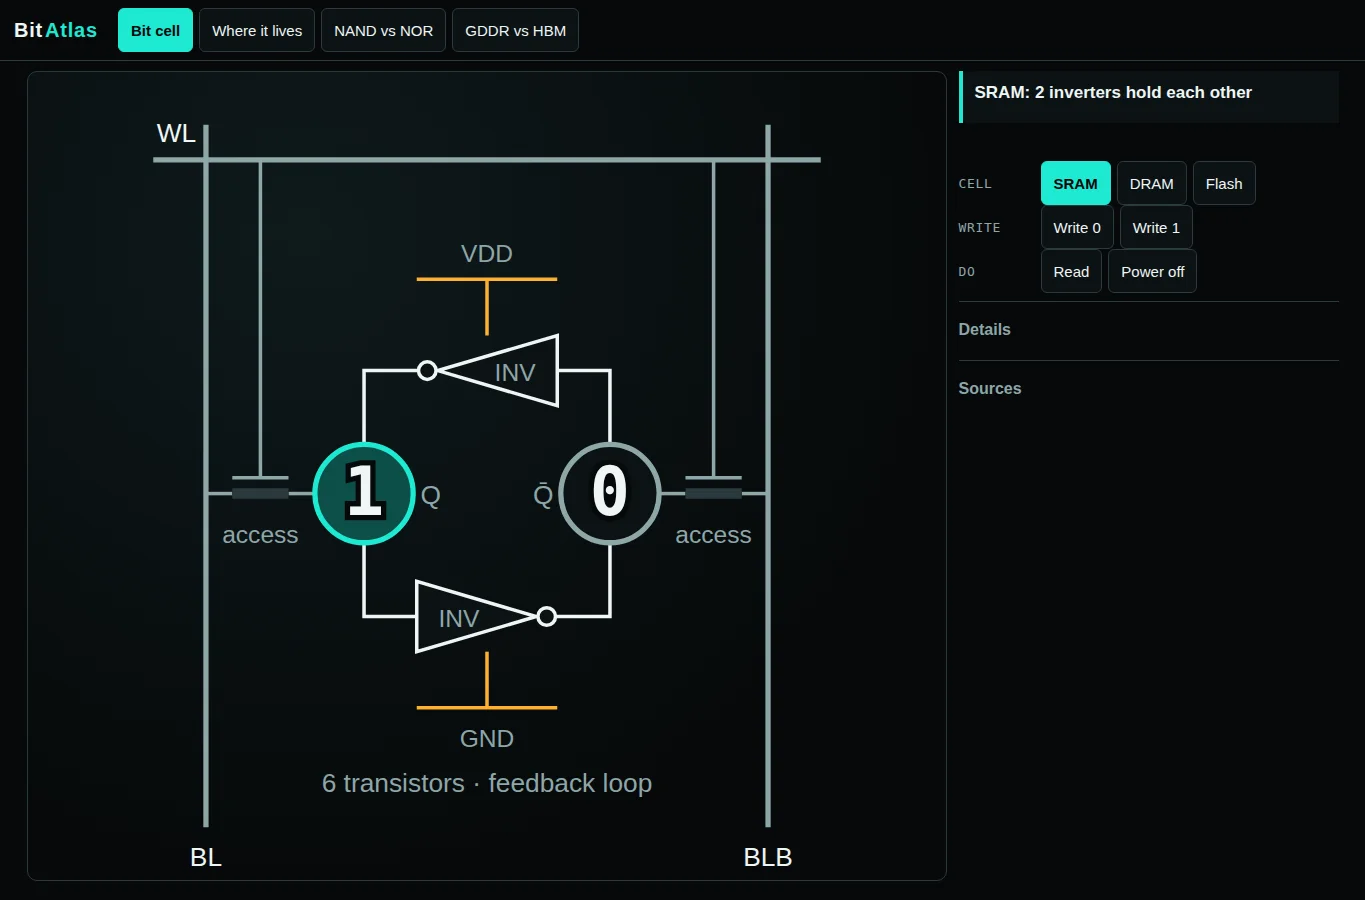
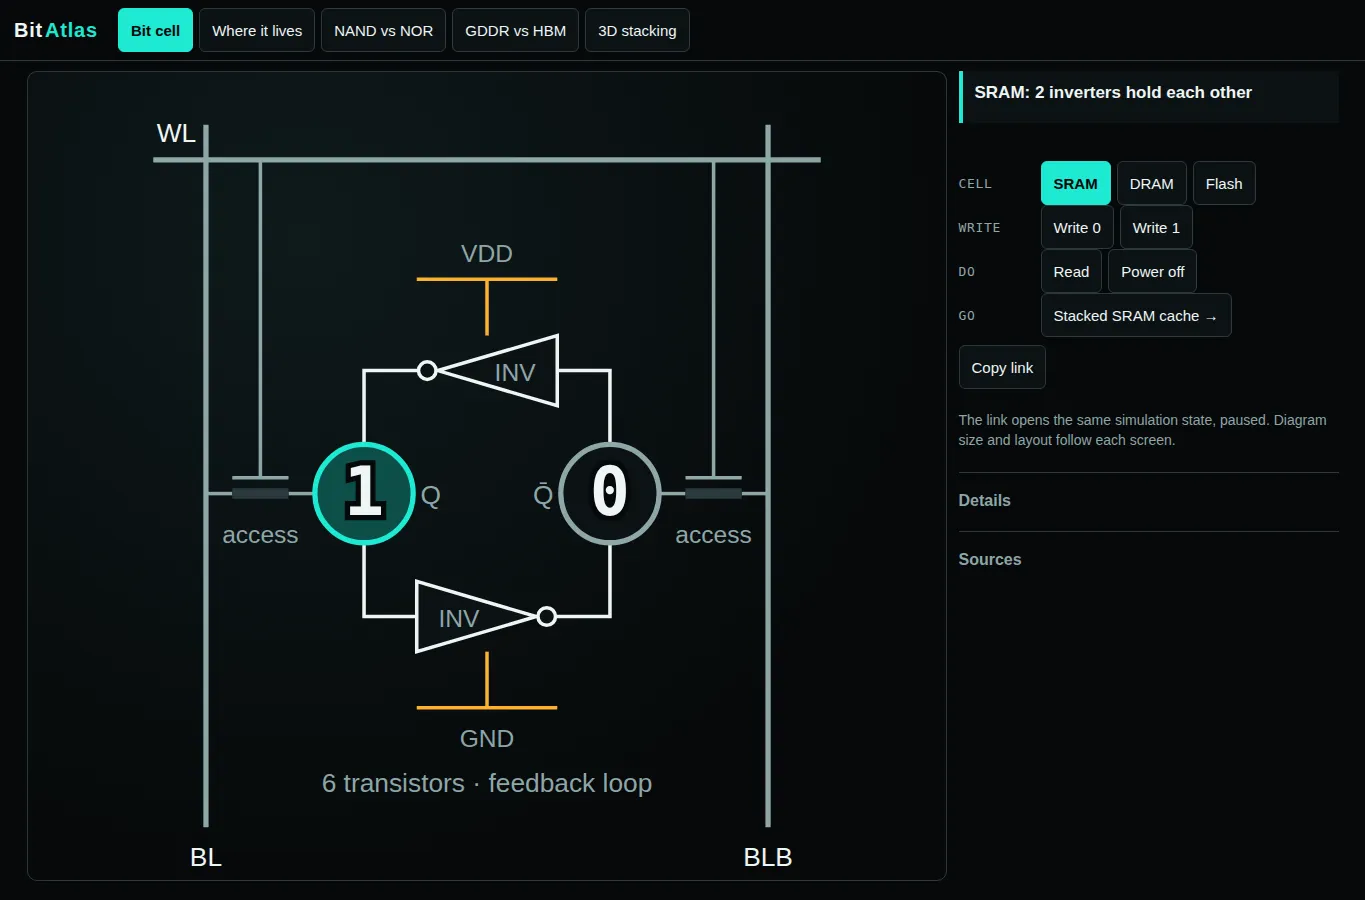
chore: refresh Bit Atlas preview and repository date
Bit Atlas redeployed (9f16e46). Replace its preview with a fresh default
1365x900 live capture (plain lossy VP8 WebP, still dated 2026-10-28) and
set its updatedAt to the GitHub updated_at 2026-10-28T03:53:27Z, from a
later lookup retrieved 2026-10-28T03:56:55Z. Every other entry keeps the
2026-10-28T00:50:50Z inventory (now has also moved since then, and was
left as is because this refresh covers Bit Atlas only). The note, README
and verify.mjs record that exception. Counts, order and capture dates
are unchanged.

diff --git a/README.md b/README.md
@@ -40,7 +40,8 @@ separate *GitHub repo* link.
 >
 > **Repository dates:** each entry's `createdAt` / `updatedAt` are the GitHub
 > repository `created_at` / `updated_at` values from the authenticated GitHub REST API
-> (one owner Pages inventory, retrieved 2026-10-28T00:50:50Z), applied to every entry.
+> (one owner Pages inventory, retrieved 2026-10-28T00:50:50Z), applied to every entry
+> except `bit-atlas`, whose values come from a later lookup retrieved 2026-10-28T03:56:55Z.
 > They are repository metadata, not page-content dates — `updated_at` moves on any repository
 > update (pushes, settings, description). They are stored statically; the page makes
 > no GitHub API calls.
